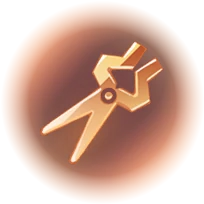
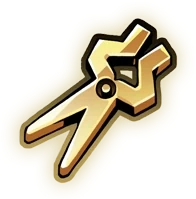
feat(art): take my own hephaestus, hera and hestia symbols
Their plain cut is lent to three neighbouring tabs so the two can be
judged side by side. Revert this commit when that is settled.

diff --git a/packages/catalog/src/assets.test.ts b/packages/catalog/src/assets.test.ts
@@ -57,7 +57,9 @@ describe("godIconFor", () => {
     // the same drawing.
     expect(godIconFor("hades1", "Zeus")).toBe("official/hades1/BoonSymbolZeus");
     expect(godIconFor("hades2", "Zeus")).toBe("official/hades1/BoonSymbolZeus");
-    for (const god of ["Artemis", "Athena", "Dionysus", "Poseidon"]) {
+    // Poseidon belongs in this list and is lent another god's plain symbol for
+    // as long as the comparison below runs.
+    for (const god of ["Artemis", "Athena", "Dionysus", "Demeter"]) {
       expect(godIconFor("hades2", god)).toBe(`official/hades1/BoonSymbol${god}`);
     }
   });
@@ -75,8 +77,10 @@ describe("godIconFor", () => {
     // Same absence as a trait with no icon, and the placeholder is deliberately
     // not per-game: it is ours to draw, not either game's.
     expect(godIconFor("hades2", "NoSuchGod")).toBe("official/_missing");
-    // Hades himself, who has a page in Hades II and a symbol in neither set.
-    expect(godIconFor("hades2", "Hades")).toBe("official/_missing");
+    // Hades himself has a page in Hades II and a symbol in neither set, and is
+    // the third god lent one for the comparison below. This line comes back
+    // with him when that ends.
+    expect(godIconFor("hades1", "Hades")).toBe("official/_missing");
   });
 });
 
@@ -93,6 +97,21 @@ describe("elementIconFor", () => {
     // The placeholder rather than a Hades II path, which would serve one game's
     // art on the other's page.
     expect(elementIconFor("hades1", "Fire")).toBe("official/_missing");
+  });
+});
+
+describe("the god-symbol comparison", () => {
+  it("lends three neighbours the plain cut of the art under judgement", () => {
+    // TEMPORARY, and deliberately loud: this whole block goes when the glowing
+    // and plain cuts have been judged against each other, and the two
+    // expectations it edited above come back with it.
+    expect(godIconFor("hades2", "Poseidon")).toBe("official/hades2/BoonSymbolHestia_plain");
+    expect(godIconFor("hades2", "Hermes")).toBe("official/hades2/BoonSymbolHera_plain");
+    expect(godIconFor("hades2", "Hades")).toBe("official/hades2/BoonSymbolHephaestus_plain");
+    // The three under judgement keep their own glowing cut.
+    for (const god of ["Hephaestus", "Hera", "Hestia"]) {
+      expect(godIconFor("hades2", god)).toBe(`official/hades2/BoonSymbol${god}`);
+    }
   });
 });
 

diff --git a/packages/catalog/src/assets.ts b/packages/catalog/src/assets.ts
@@ -70,7 +70,24 @@ export function iconFor(game: GameKey, traitId: TraitId): string {
  * Hephaestus, Hera and Hestia have no Hades I counterpart and match anyway.
  * Hades has no symbol in either set and falls through to the placeholder.
  */
+/**
+ * TEMPORARY, and the whole of it is one commit to revert.
+ *
+ * Three gods whose symbol now comes from the user's own art, which ships in a
+ * glowing and a plain cut. To judge the two side by side the plain cut is lent
+ * to three neighbours on the bar, so a glance covers both without switching
+ * anything. Delete this table and its use below once the choice is made.
+ */
+const SYMBOL_COMPARISON: Readonly<Record<string, string>> = {
+  Poseidon: "BoonSymbolHestia_plain",
+  Hermes: "BoonSymbolHera_plain",
+  Hades: "BoonSymbolHephaestus_plain",
+};
+
 export function godIconFor(game: GameKey, god: GodId): string {
+  const borrowed = game === "hades2" ? SYMBOL_COMPARISON[god] : undefined;
+  if (borrowed !== undefined) return `${ART_SET}/hades2/${borrowed}`;
+
   const preferred = godIconKey("hades1", god);
   if (preferred !== null) return `${ART_SET}/hades1/${preferred}`;
 
